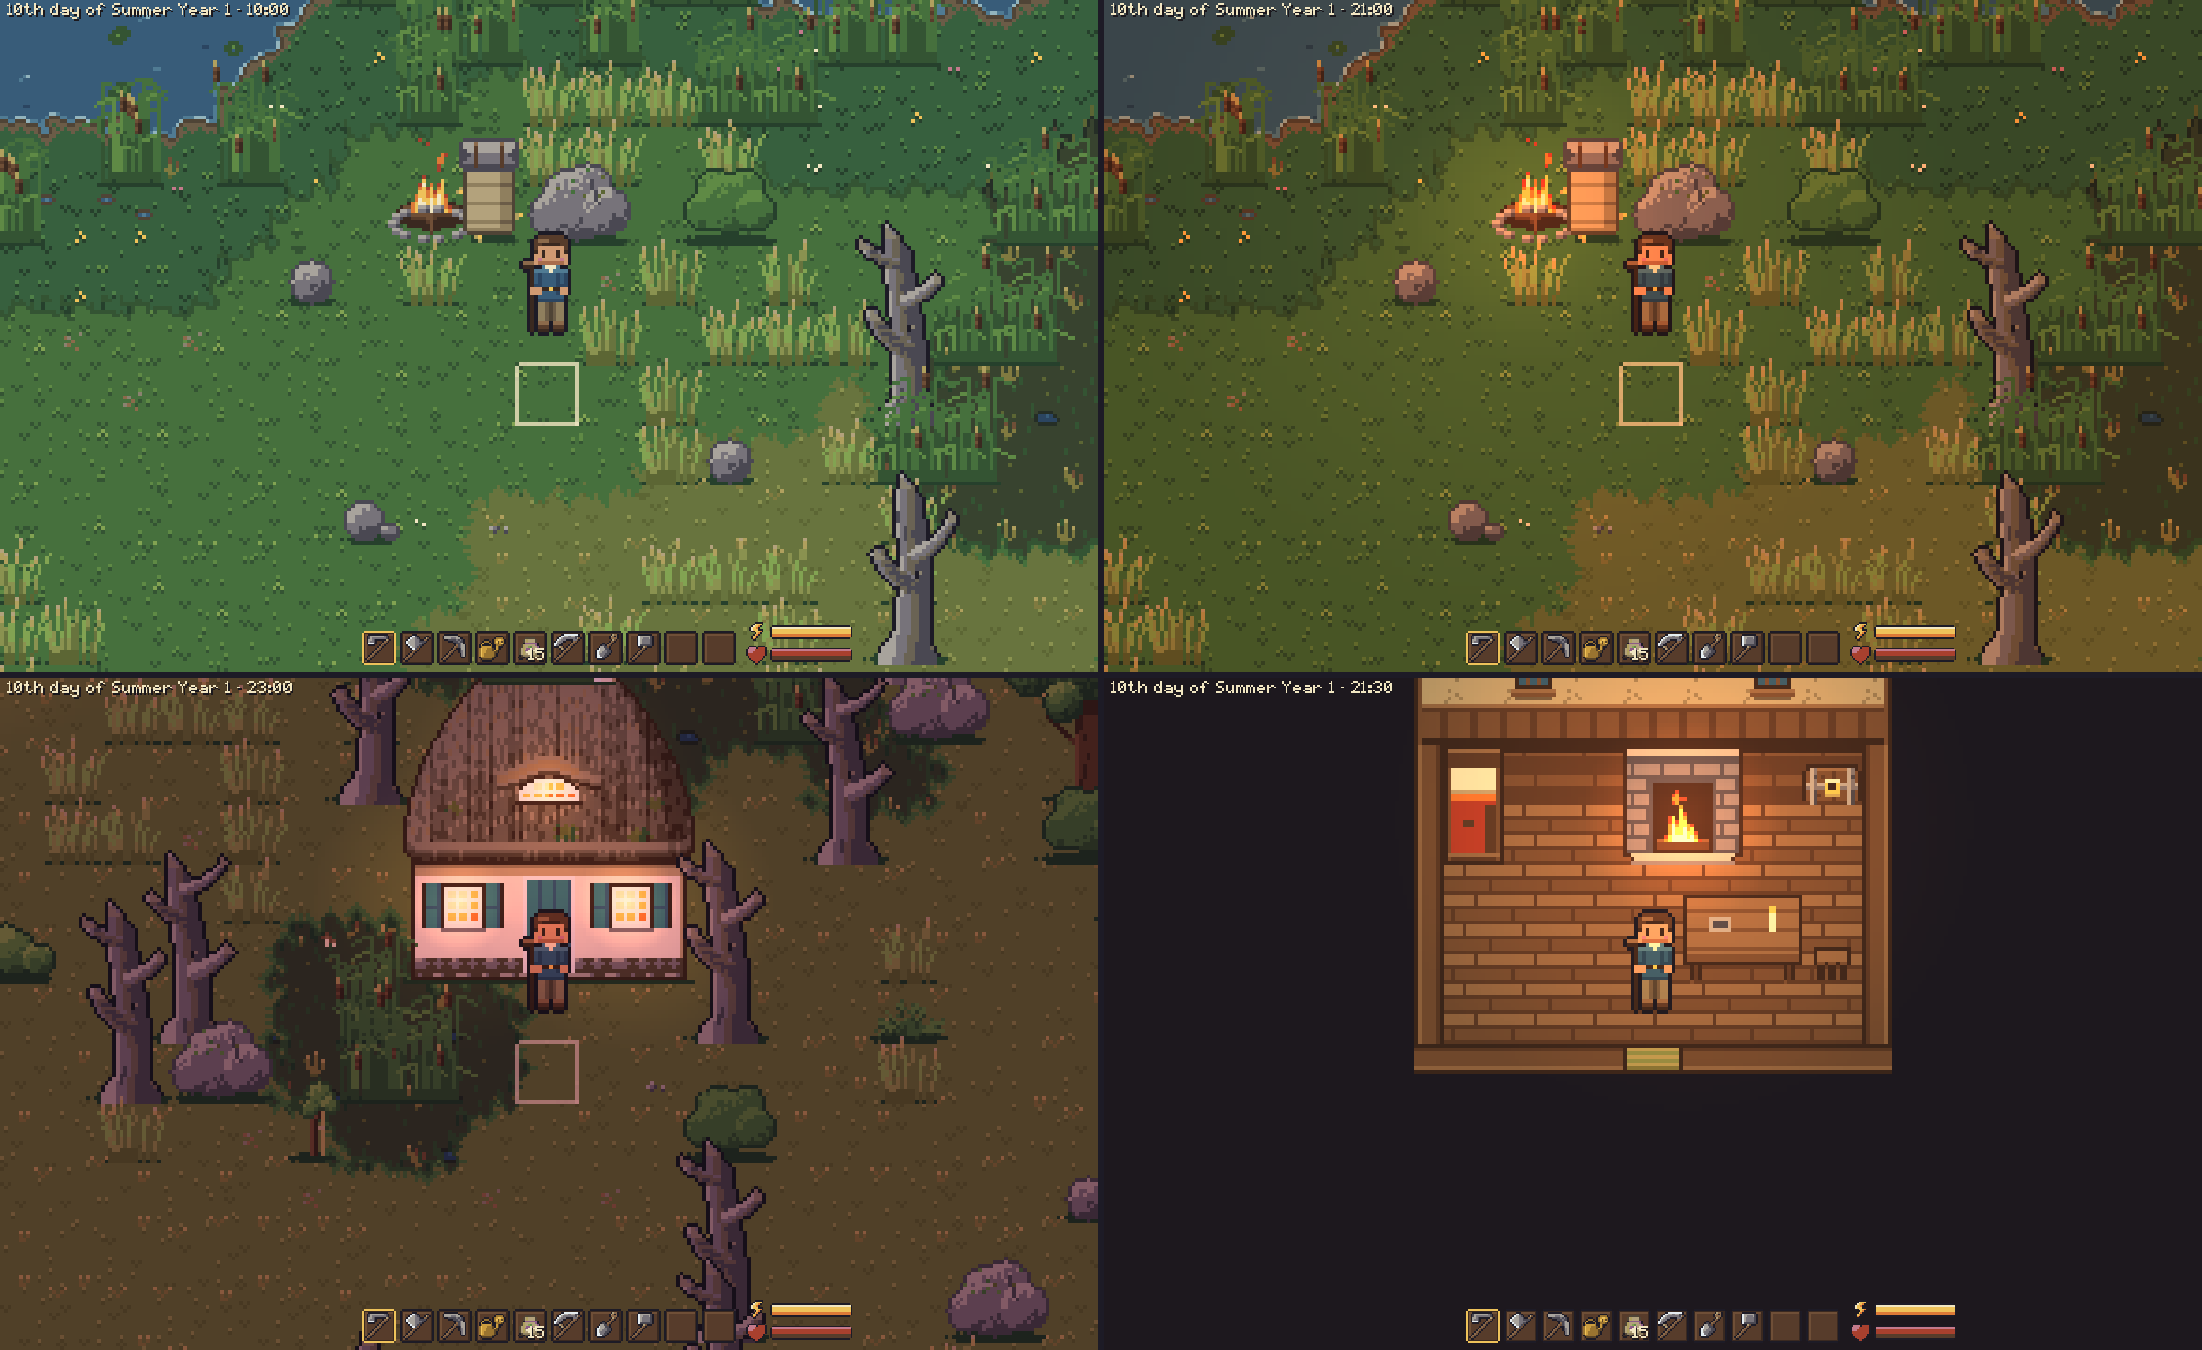
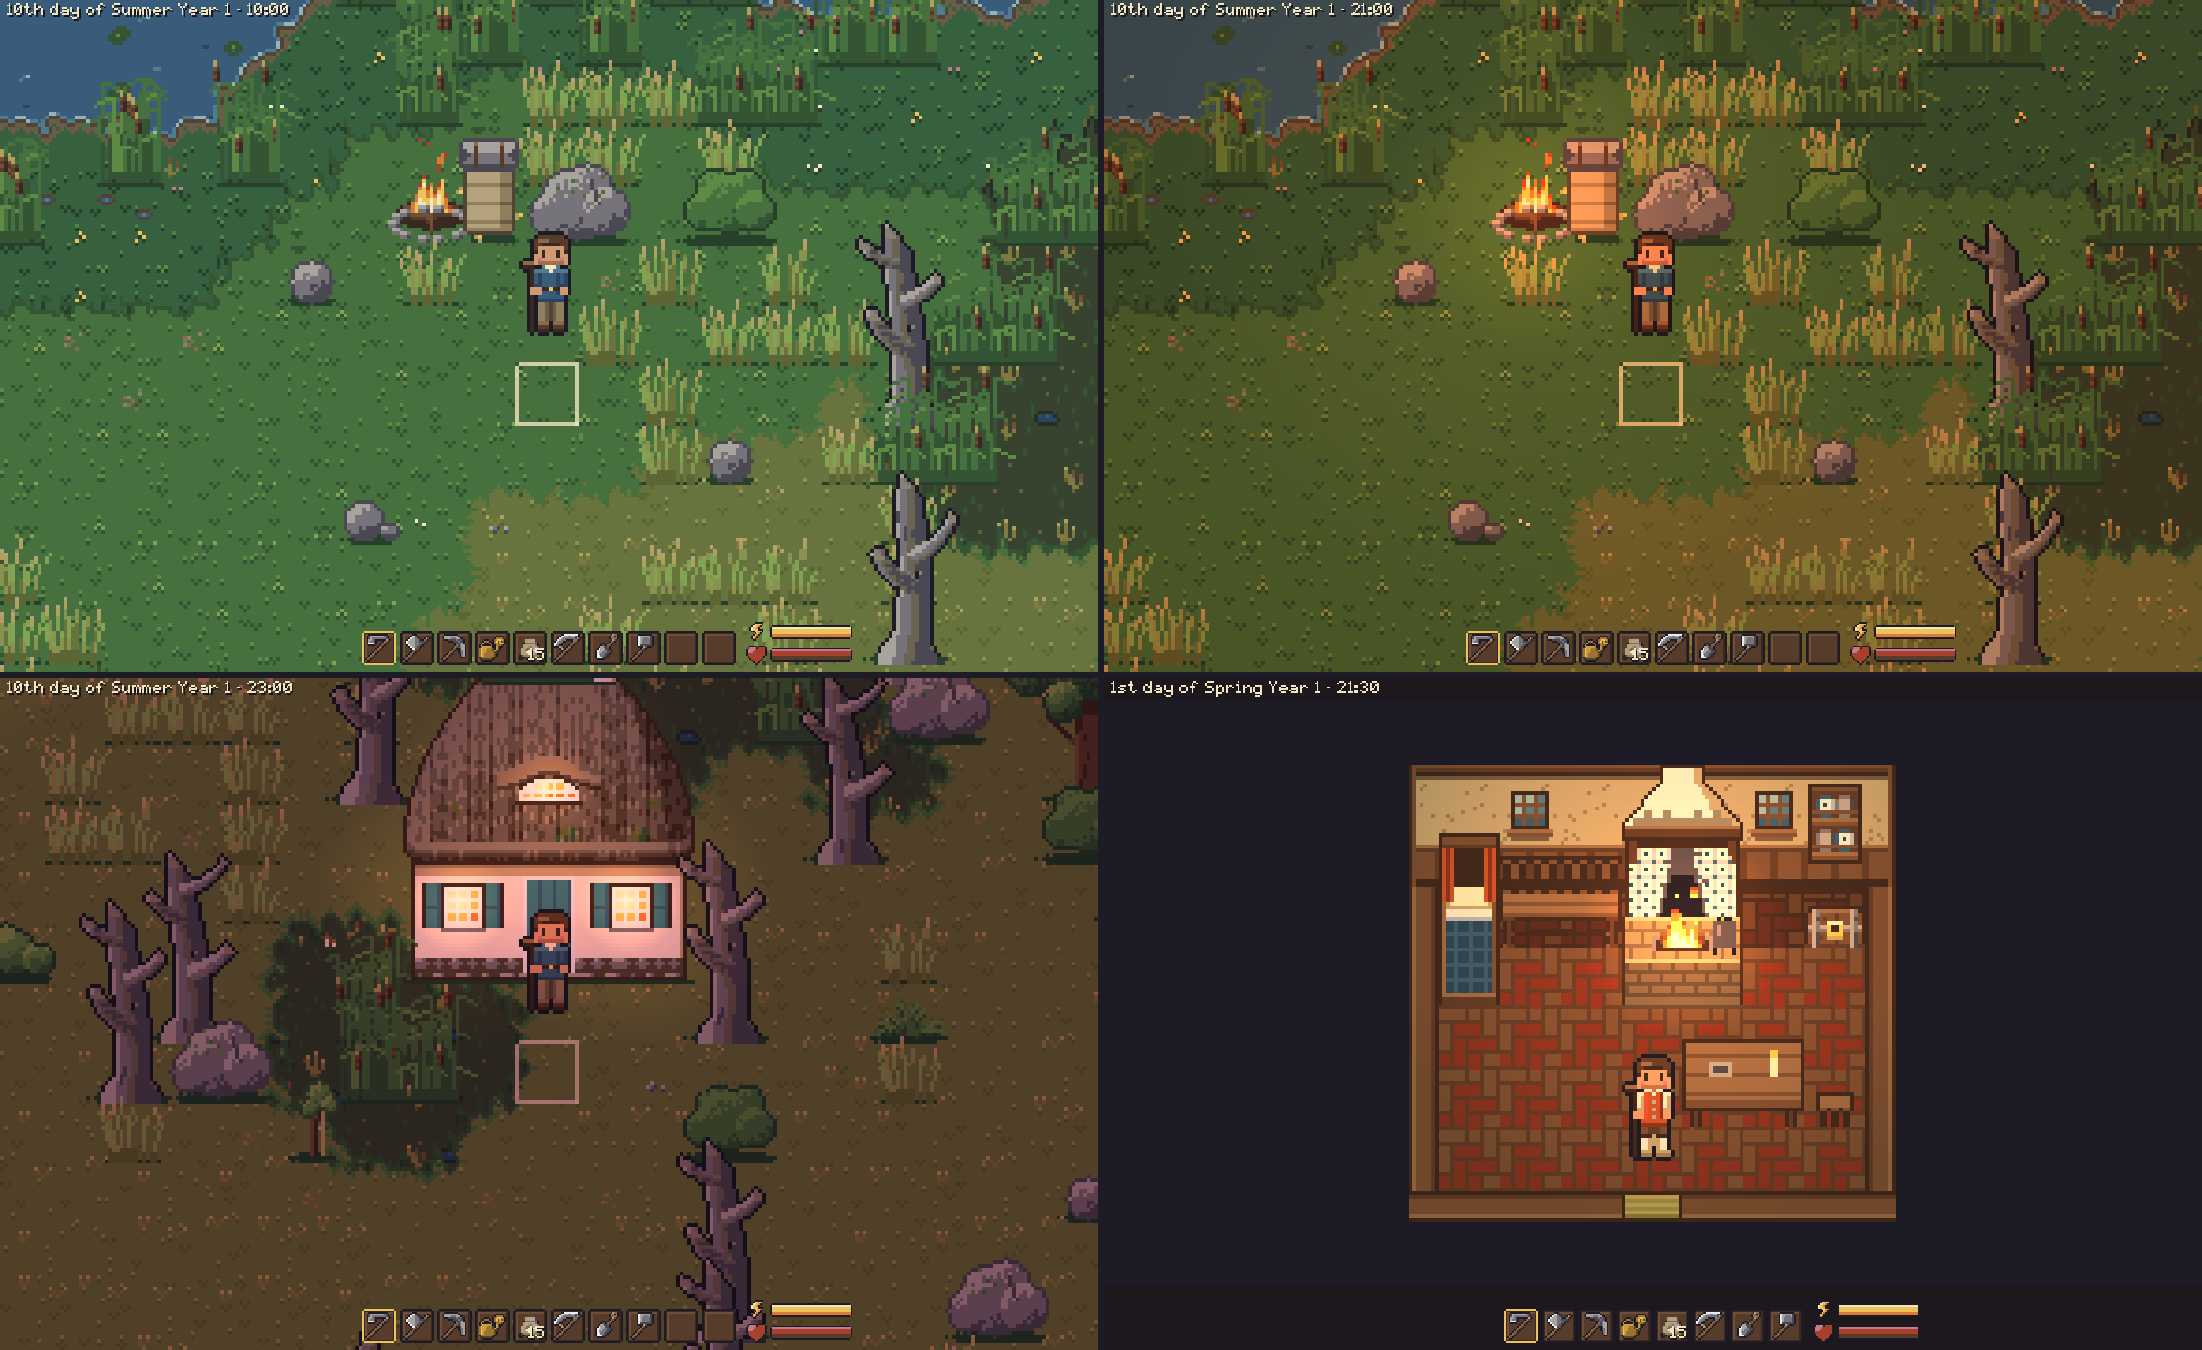
Docs: hearth and furnishing of the period (task 57 done)
SPEC, README with a new interiors picture and the night interior of
day-and-night.png refreshed, the art guide's bigger item 5 marked done,
TASKS ticked. The maps README now points at interior.py's furniture()
instead of a FURNITURE table that no longer exists.

Changed region(s): [[0.6176, 0.4978, 0.8647, 0.9022], [0.6485, 0.9644, 0.8955, 0.9956], [0.525, 0.4978, 0.5559, 0.5289]]

diff --git a/SPEC.md b/SPEC.md
@@ -827,6 +827,23 @@ Decided 2026-11-05.
     bench; a stall partition divides it from the animal end with stalls, hay and sacks), barn
     13×8 (four hay stalls, crates, barrels, sacks). Sleep fills: mat 80, bed and box bed 100.
     The barn has no bed, so it can't be slept in.
+  - **Furnished in the period** (task 57, 2026-11-06, from docs/art-style.md): the rooms look
+    like 18th-century North Frisian and Danish farmhouses. Floors: red brick in a herringbone
+    in the living rooms (the Kate, the longhouse's living end), beaten clay in the work rooms
+    (the byre, the barn, the shack); clay is a terrain of its own (`CLAY_FLOOR`) and sounds
+    like soil underfoot, while clogs clack on brick as on wood. The hearth is an open hearth
+    of buff brick under a lime-washed smoke hood on an oak mantel, with an iron pot, Dutch
+    tiles (blue-and-white Delft) on the wall under the hood and soot behind the fire; the
+    hood stands on the back wall above the hearth's footprint, and its fire burns as before
+    (same shader, light and sound). Plate racks with Delft and pewter plates hang on the back
+    wall of the Kate and the longhouse's living end (wall pieces, like the window); the Kate
+    has a spindle-backed bench against the back wall. The Kate's bed is boxed in like a Durk
+    under a canopy with red curtains, the longhouse's box bed a panelled cupboard (an
+    Alkoven) open onto the bed, reaching up the wall to just under the window; both under a
+    checked indigo blanket. All furniture blocks walking as before; footprints, beds, doors
+    and every free floor tile stay reachable (tested). A save from before (version 11) takes
+    today's floors and the wall pieces its rooms lack; the furniture on the floor stays as
+    the player left it. The jamb stove (*Bilegger*) of the best room is left for later.
   - The look (from the user's reference photos, 2026-11-05): the roof is the hero, a huge,
     thick reed thatch, weathered grey-brown with moss, hipped at both ends with heavy rounded
     eaves, and eyebrow dormers (the thatch swells in a wave over a half-round window). The

diff --git a/README.md b/README.md
@@ -125,8 +125,11 @@ something is missing, and a click or Space builds it and takes the materials. Th
 shows where it fits, and the game tells you why a spot doesn't work, for example when it
 is unsafe wetland. Hold something else (or press Escape or right click) to stop building.
 You can walk inside every building, and each has its own room: a bare shack with a straw
-mat, a cottage room in the Kate, the longhouse with a living end and an animal end, and
-the barn with stalls and hay. The last bed you slept in becomes your home. A new game
+mat on a clay floor, a cottage room in the Kate, the longhouse with a living end and an
+animal end, and the barn with stalls and hay. The rooms are furnished like 18th-century
+farmhouses of the coast: brick floors in the living rooms and beaten clay in the work rooms,
+an open hearth under a smoke hood with Dutch tiles behind the fire, plate racks with Delft
+and pewter, a wall bench and box beds with curtains. The last bed you slept in becomes your home. A new game
 starts at the camp with your tools and the hammer, so the materials for the first house
 have to be gathered first. The buildings, their sizes, costs and insides are in
 [data/buildings.cfg](data/buildings.cfg).
@@ -136,6 +139,8 @@ with white lime walls and teal shutters, the brick longhouse with its arched bar
 half-timbered barn, and the plank shack.
 
 ![The Kate, the longhouse, the barn and the shack in summer](docs/screenshots/buildings.png)
+
+![Inside the Kate and the longhouse at night, by the hearth](docs/screenshots/interiors.png)
 
 ![Build mode: the ghost of a Kate and what it costs](docs/screenshots/build.png)
 

diff --git a/TASKS.md b/TASKS.md
@@ -136,11 +136,26 @@ as its seed, which also fixes a crash on picking a willow sapling.
 
 ## 57. Hearth and furnishing of the period
 
-- [ ] Done
+- [x] Done
 
 docs/art-style.md bigger item 5: an open hearth under a smoke hood (or a jamb stove),
 Dutch tiles behind it, clay or brick floors, plate rack, wall benches; the animated fire of
 task 48 kept.
+
+Done: one commit per piece. Floors: red brick in a herringbone in the living rooms (Kate,
+longhouse living end), beaten clay in the byre, the barn and the shack, as a new terrain
+`CLAY_FLOOR` (footsteps on it are soil; the tileset got two floor tiles, every later tile id
+moved up two). The hearth is an open hearth under a smoke hood, its picture 32x64 with the
+hood on the back wall (fire box, flame top and light moved with it; same shader, light and
+sound), the hearth of buff brick with an iron pot; Dutch tiles under the hood, soot behind
+the fire. A plate rack (a wall piece like the window) in the Kate and the longhouse, a
+spindle-backed `wall_bench` in the Kate between bed and hearth. The Kate's bed a Durk under
+a canopy with curtains, the longhouse's box bed an Alkoven cupboard that stops under the
+window's sill. Footprints, beds and gameplay unchanged; every free floor tile stays
+reachable. Save version 12: rooms saved before take today's floors and the wall pieces they
+lack, where the wall is free (checked on a copy of the user's save: Kate, shack and
+longhouse load and look right). No new colours. The open hearth was chosen over the jamb
+stove (the guide's first suggestion); the Bilegger is left for a best room.
 
 ## 58. The shack in tarred boards
 

diff --git a/docs/art-style.md b/docs/art-style.md
@@ -373,9 +373,15 @@ copper watering can. Kept here as the record of why.
    willows and the Knicks' hazel and hawthorn are task 54's. No new colours. Still to do:
    overstander oaks in the Knicks, beech woods for the Baltic hill country once it exists,
    heath with juniper.
-5. **Interior hearth and furnishing** (medium). The hearth looks like a modern stone
-   fireplace. An open hearth under a smoke hood, or a jamb stove; Dutch tiles behind it;
-   clay or brick floor in the Kate; plate rack, benches along the wall.
+5. ~~**Interior hearth and furnishing**~~ done (task 57). The hearth looked like a modern
+   stone fireplace. Now: an open hearth of buff brick under a lime-washed smoke hood on an
+   oak mantel, with an iron pot, Dutch tiles under the hood and soot behind the fire; red
+   brick in a herringbone in the living rooms, beaten clay in the byre, the barn and the
+   shack; plate racks with Delft and pewter plates, a spindle-backed wall bench in the Kate;
+   the Kate's bed boxed in like a Durk and the longhouse's box bed an Alkoven cupboard, both
+   with red curtains and a checked indigo blanket. No new colours. Still to do: the jamb
+   stove (*Bilegger*) for a best room, sanded boards there, lime-washed inner walls, and a
+   long table.
 6. **Shack** (small–medium). Reads as a frontier cabin. Tarred black or silver boards with
    a reed or turf roof.
 7. **A hall house with the gable front** (large). Uhlenloch, crossed horse heads, the big

diff --git a/maps/README.md b/maps/README.md
@@ -46,8 +46,8 @@ and a free tile stands beside each bed.
 Furniture tiles are generated, so a new one starts in the art code
 ([tools/README.md](../tools/README.md)):
 
-1. Draw it in `tools/art/generate.py` and add it to `FURNITURE` with its footprint. Add it at
-   the **end**: the order is the tile ids of the tileset, and existing maps refer to them.
+1. Draw it in `tools/art/interior.py` and add it to `furniture()` with its footprint. Add it
+   at the **end**: the order is the tile ids of the tileset, and existing maps refer to them.
 2. Add its type to `WorldObjectTypes` with `interior_sprite` (the picture it made in
    `assets/interior/`) and its footprint.
 3. Run `make assets`, then add a `<tile>` with the property `object_type` to `interior.tsx`
